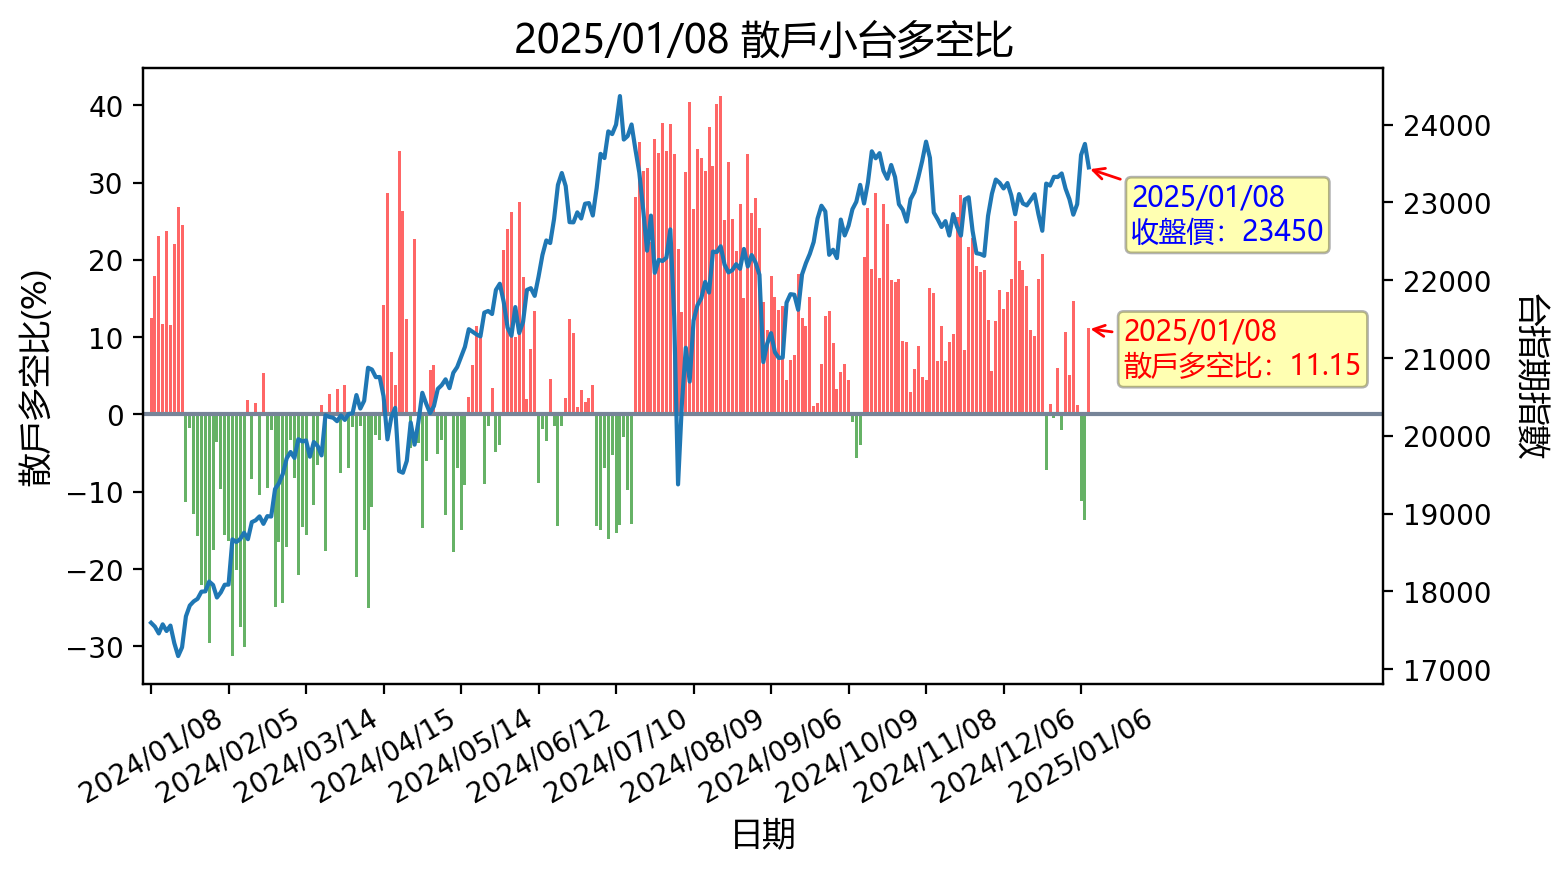
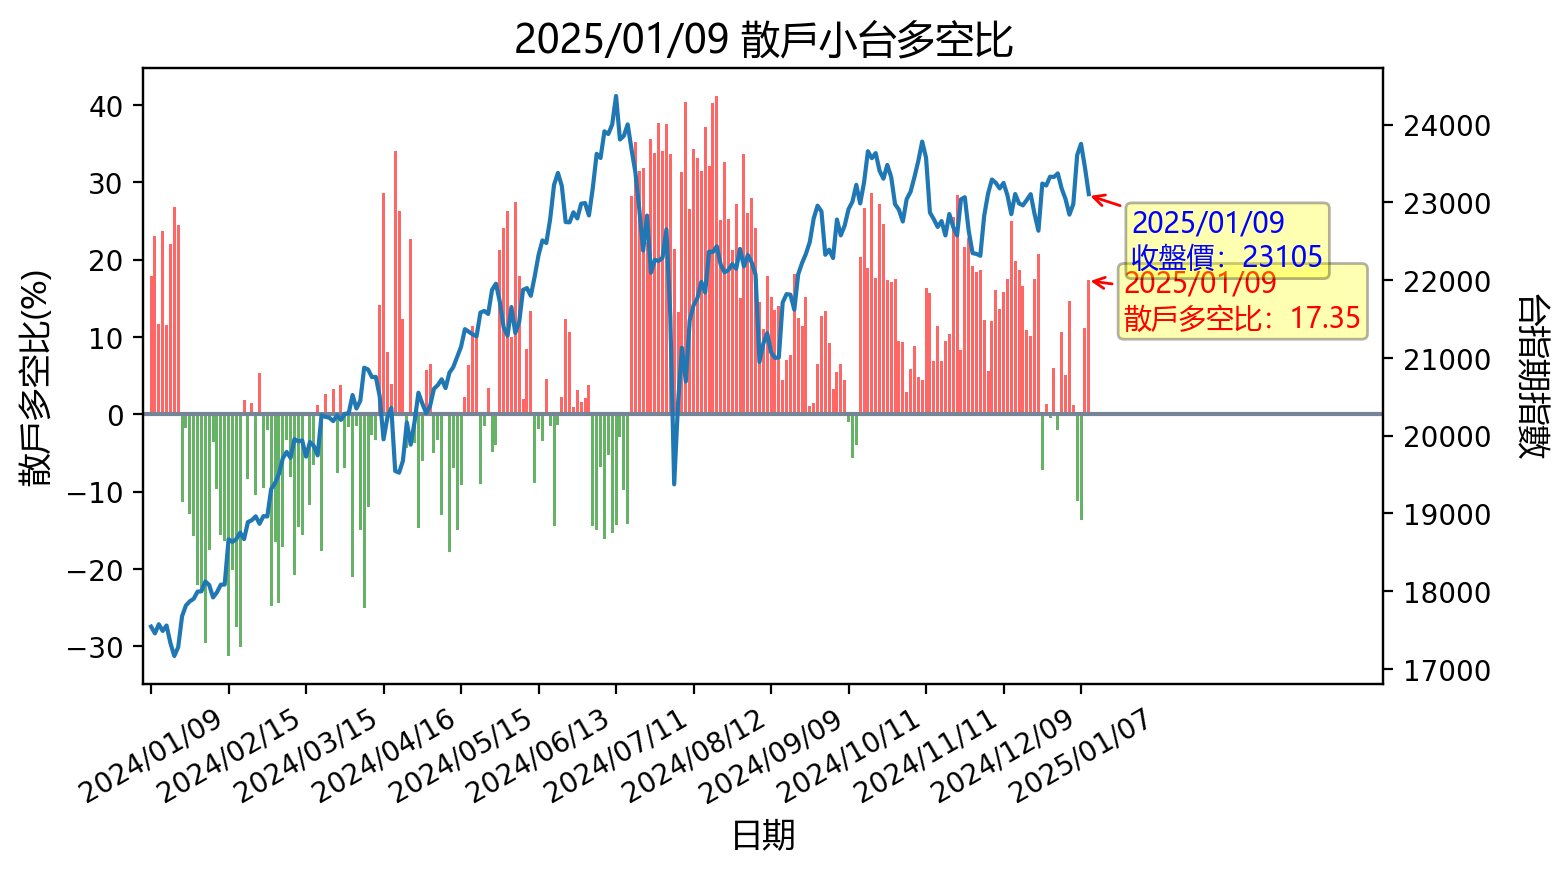
更新時間: Thu Jan  9 16:35:06 CST 2025

diff --git a/README.md b/README.md
@@ -1,12 +1,12 @@
-## 20250108 台指期「預估換倉成本」
+## 20250109 台指期「預估換倉成本」
 ![](images/txfcost.png)
 
-## 20250108 台指期「散戶小台多空比」
+## 20250109 台指期「散戶小台多空比」
 ![](images/bbiri.png)
 
-## 20250108 台指選擇權「Put/Call Ratios」
+## 20250109 台指選擇權「Put/Call Ratios」
 ![](images/pcratio.png)
 
-## 20250108 台指期「大額交易人」
+## 20250109 台指期「大額交易人」
 ![](images/blocktrade.png)
 
